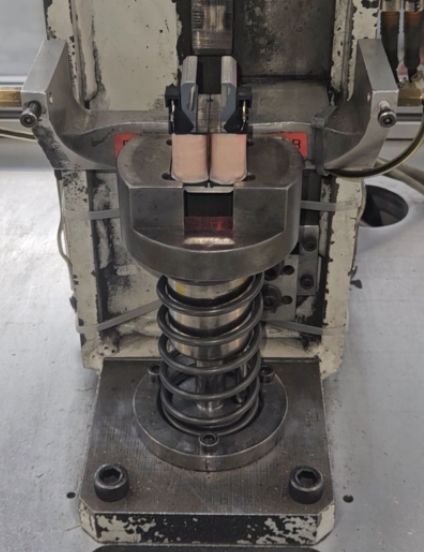
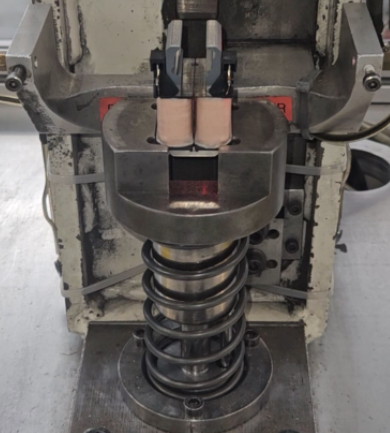
Update WILO experience photo

diff --git a/css/style.css b/css/style.css
@@ -793,7 +793,8 @@ img {
 .experience-photo {
     width: 100%;
     aspect-ratio: 16 / 9;
-    object-fit: cover;
+    object-fit: contain;
+    background: #f1f5f9;
     border-radius: var(--radius-md);
     border: 1px solid var(--border);
     box-shadow: var(--shadow-sm);
